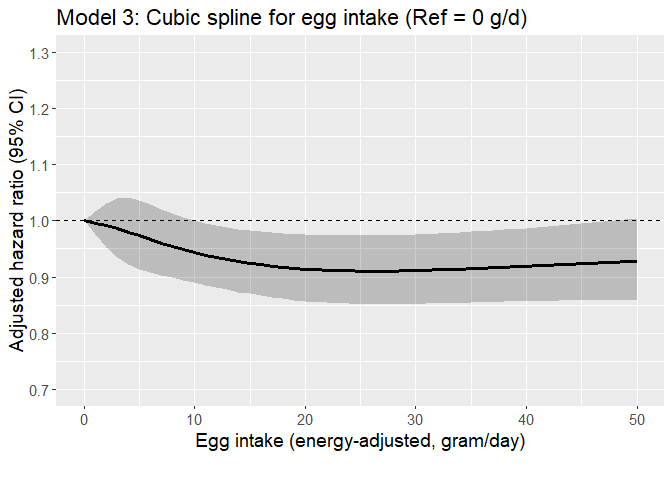
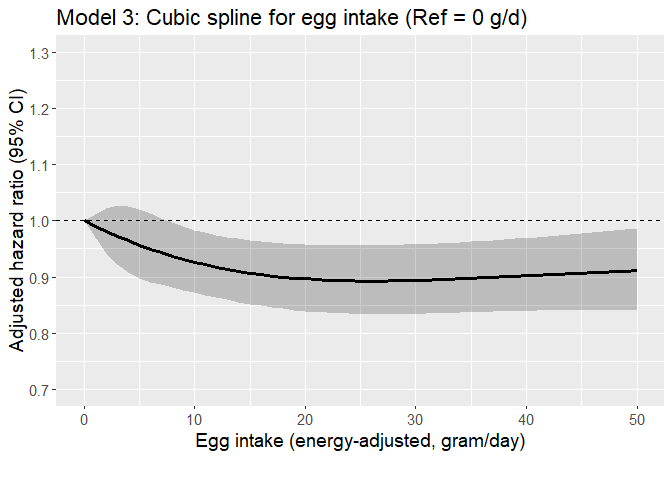
Add spline plots for IHD

Changed region(s): [[0.125, 0.4062, 0.9688, 0.6562]]

diff --git a/summary_ihd.md b/summary_ihd.md
@@ -358,7 +358,7 @@ Egg CVD study (IHD as outcome)
 
 ![](summary_ihd_files/figure-gfm/mv_cox_models_results-1.png)<!-- -->
 
-### Restricted cubic spline for egg intake
+### Restricted cubic spline for dietary intake
 
 - In the output above, egg intake was entered into the models as
   categorical. In the following analysis, we used restricted cubic
@@ -378,12 +378,36 @@ Egg CVD study (IHD as outcome)
 
 | Egg intake (g/d) |   HR | Lower | Upper |
 |-----------------:|-----:|------:|------:|
-|                5 | 0.97 |  0.91 |  1.04 |
-|               10 | 0.94 |  0.89 |  1.00 |
-|               15 | 0.92 |  0.87 |  0.98 |
-|               20 | 0.91 |  0.86 |  0.98 |
-|               30 | 0.91 |  0.85 |  0.98 |
-|               50 | 0.93 |  0.86 |  1.00 |
+|                5 | 0.96 |  0.90 |  1.02 |
+|               10 | 0.93 |  0.87 |  0.98 |
+|               15 | 0.91 |  0.85 |  0.97 |
+|               20 | 0.90 |  0.84 |  0.96 |
+|               30 | 0.89 |  0.83 |  0.96 |
+|               50 | 0.91 |  0.84 |  0.99 |
+
+- When examined for non-linearity, meat and nuts/seed intake also showed
+  significant non-linear associations with IHD. The plots of adjusted
+  HRs are shown below.
+
+![](summary_ihd_files/figure-gfm/cubic_spline_meat-1.png)<!-- -->
+
+| Meat intake (g/d) |   HR | Lower | Upper |
+|------------------:|-----:|------:|------:|
+|                25 | 1.18 |  1.10 |  1.25 |
+|                50 | 1.22 |  1.13 |  1.31 |
+|                75 | 1.22 |  1.12 |  1.32 |
+|               100 | 1.20 |  1.08 |  1.34 |
+|               200 | 1.14 |  0.85 |  1.53 |
+
+![](summary_ihd_files/figure-gfm/cubic_spline_meat-2.png)<!-- -->
+
+| Nuts/seeds intake (g/d) |   HR | Lower | Upper |
+|------------------------:|-----:|------:|------:|
+|                      10 | 0.91 |  0.84 |  0.99 |
+|                      20 | 0.87 |  0.79 |  0.95 |
+|                      30 | 0.85 |  0.78 |  0.93 |
+|                      40 | 0.85 |  0.78 |  0.92 |
+|                      50 | 0.86 |  0.79 |  0.93 |
 
 ### Interaction between egg and meat intake
 
